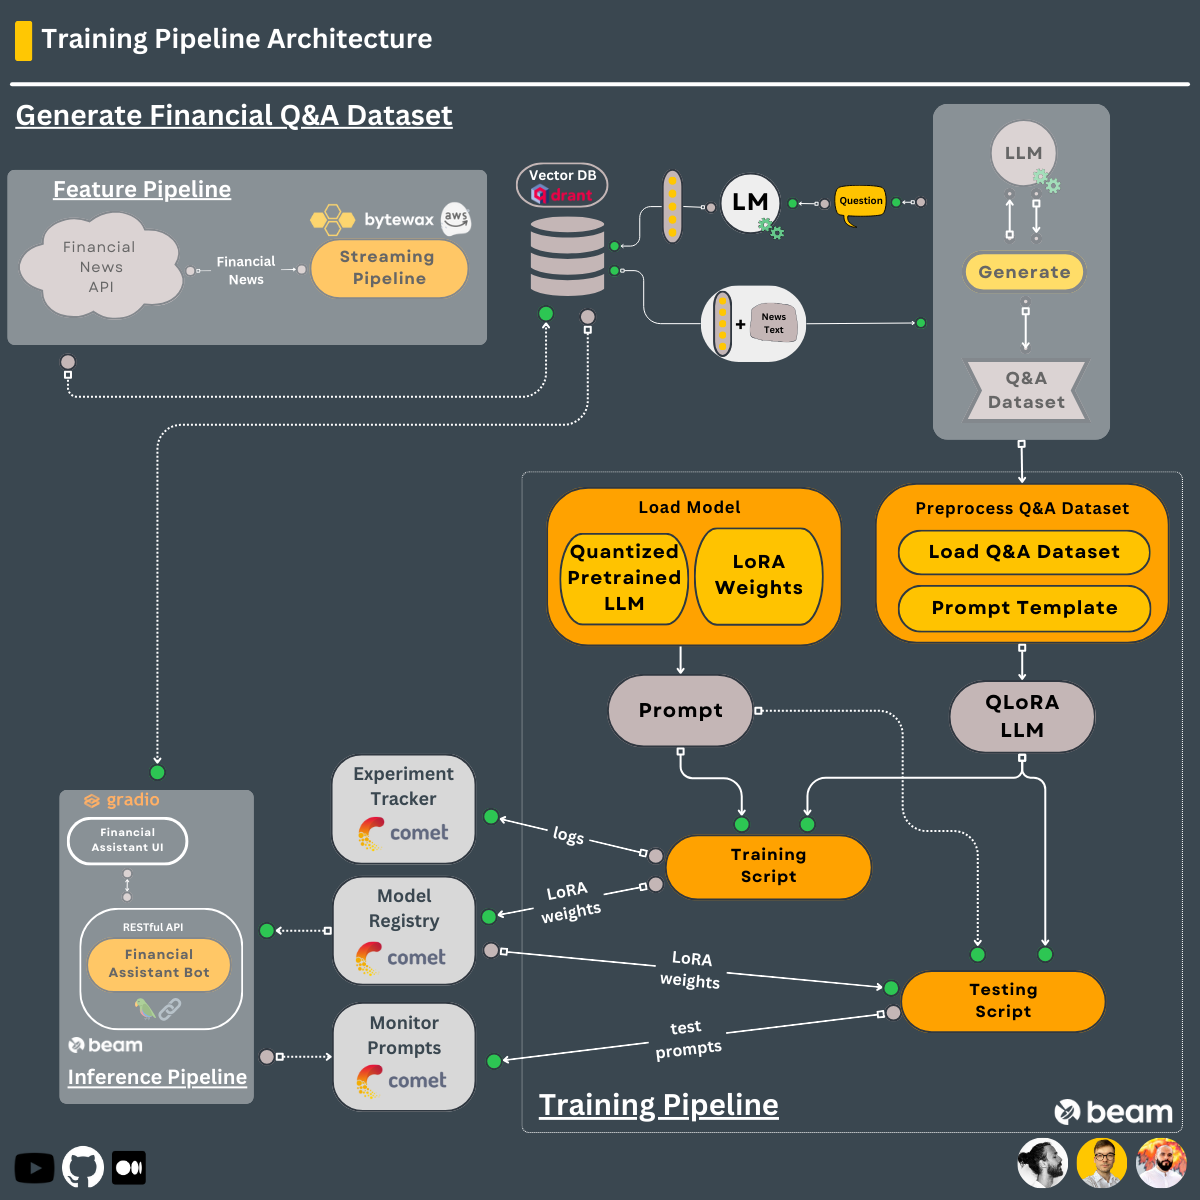
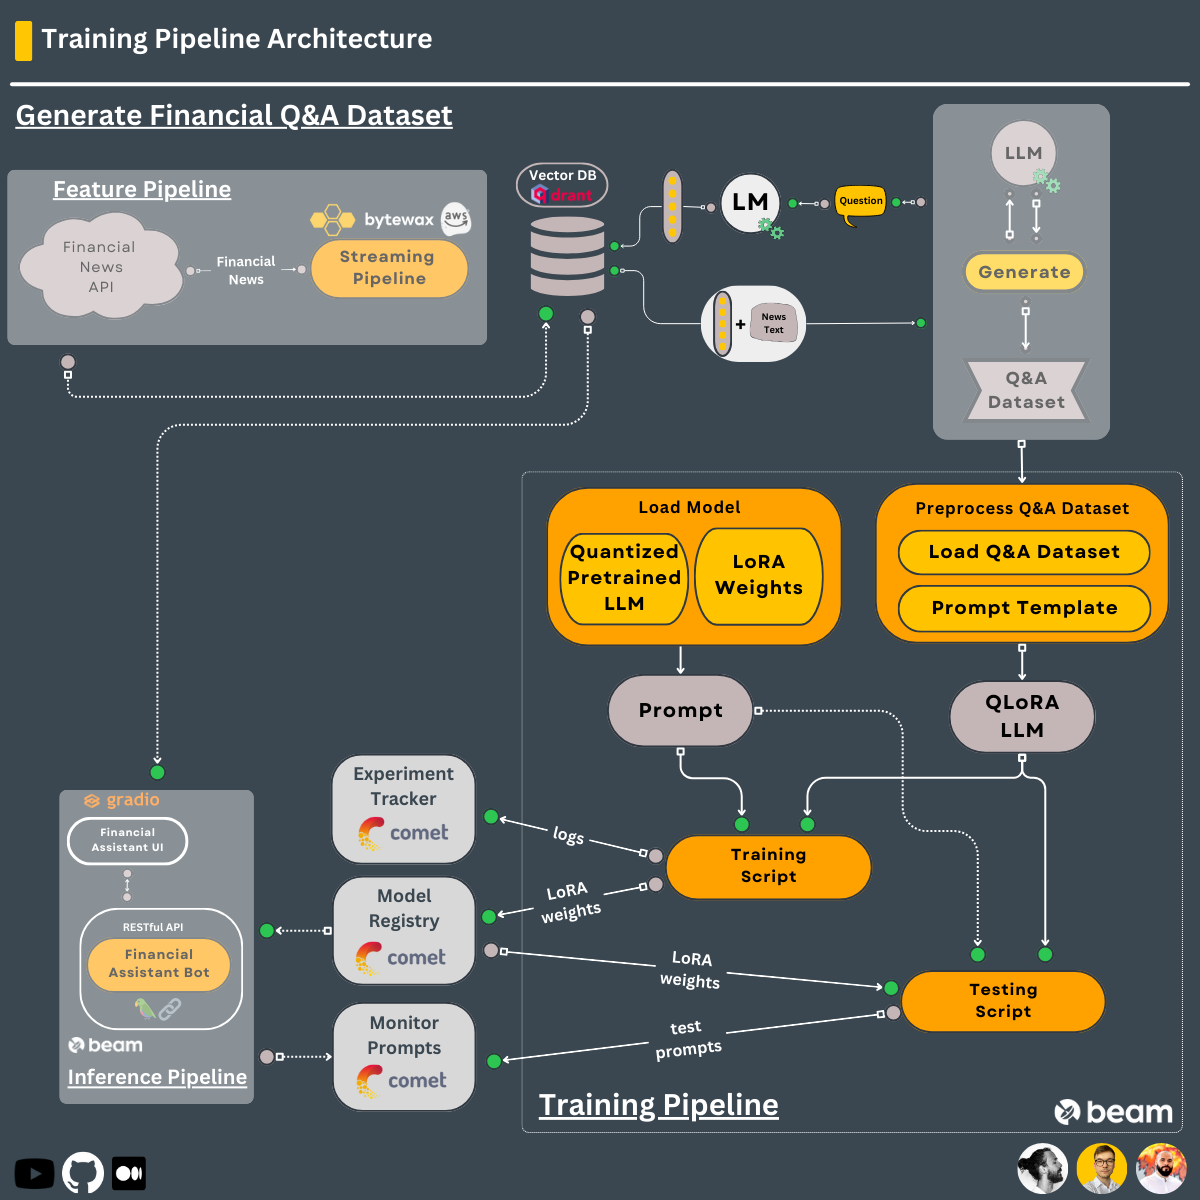
docs: Update layouts
* docs: Update training pipeline architecture diagram

* docs: Update SP layout

* docs: Update main layout

* docs: Update TODOs

Changed region(s): [[0.8325, 0.925, 1.0, 1.0], [0.0, 0.9558, 0.1233, 1.0]]

diff --git a/modules/financial_bot/financial_bot/chains.py b/modules/financial_bot/financial_bot/chains.py
@@ -113,12 +113,13 @@ class ContextExtractorChain(Chain):
         question_str = inputs[quest_key]
 
         cleaned_question = self.clean(question_str)
-        # TODO: Chunk the question in 'max_input_length' chunks,
+        # TODO: Instead of cutting the question at 'max_input_length', chunk the question in 'max_input_length' chunks,
         # pass them through the model and average the embeddings.
         cleaned_question = cleaned_question[: self.embedding_model.max_input_length]
         embeddings = self.embedding_model(cleaned_question)
 
-        # TODO: Using the metadata filter the news from the latest week (or other timeline).
+        # TODO: Using the metadata, use the filter to take into consideration only the news from the last 24 hours
+        # (or other time frame).
         matches = self.vector_store.search(
             query_vector=embeddings,
             k=self.top_k,

diff --git a/modules/training_pipeline/training_pipeline/api/training.py b/modules/training_pipeline/training_pipeline/api/training.py
@@ -212,8 +212,6 @@ class TrainingAPI:
 
         logger.info("Training model...")
 
-        # TODO: Handle this error: "Token indices sequence length is longer than the specified maximum sequence length
-        # for this model (2302 > 2048). Running this sequence through the model will result in indexing errors"
         trainer = SFTTrainer(
             model=self._model,
             train_dataset=self._training_dataset,

diff --git a/modules/financial_bot/financial_bot/models.py b/modules/financial_bot/financial_bot/models.py
@@ -210,10 +210,6 @@ def build_qlora_model(
         cache_dir=str(cache_dir) if cache_dir else None,
     )
 
-    # TODO: Should we also enable kbit training? Check out what it does.
-    # from peft import prepare_model_for_kbit_training
-    # model = prepare_model_for_kbit_training(model)
-
     tokenizer = AutoTokenizer.from_pretrained(
         pretrained_model_name_or_path,
         trust_remote_code=False,

diff --git a/modules/training_pipeline/training_pipeline/models.py b/modules/training_pipeline/training_pipeline/models.py
@@ -59,10 +59,6 @@ def build_qlora_model(
         cache_dir=str(cache_dir) if cache_dir else None,
     )
 
-    # TODO: Should we also enable kbit training? Check out what it does.
-    # from peft import prepare_model_for_kbit_training
-    # model = prepare_model_for_kbit_training(model)
-
     tokenizer = AutoTokenizer.from_pretrained(
         pretrained_model_name_or_path,
         trust_remote_code=False,

diff --git a/modules/training_pipeline/training_pipeline/api/inference.py b/modules/training_pipeline/training_pipeline/api/inference.py
@@ -172,9 +172,6 @@ class InferenceAPI:
 
         """
 
-        # TODO: Handle this error: "Token indices sequence length is longer than the specified maximum sequence length
-        # for this model (2302 > 2048). Running this sequence through the model will result in indexing errors"
-
         start_time = time.time()
         answer = models.prompt(
             model=self._model,

diff --git a/modules/streaming_pipeline/README.md b/modules/streaming_pipeline/README.md
@@ -155,11 +155,15 @@ Now, add all the secrets as in the image below.
 
 ![GitHub Actions Secrets](../../media/github_actions_secrets.png)
 
-Now, to deploy the streaming pipeline to AWS using GitHub Action's CI/CD pipeline, follow the next steps: `Actions Tab -> Continuous Deployment (CD) | Streaming Pipeline action (on the left) -> Press "Run workflow"`.
+<br/>
+
+Now, to **automatically deploy** the streaming pipeline to AWS using the GitHub Action's CI/CD pipeline, follow the next steps: `Actions Tab -> Continuous Deployment (CD) | Streaming Pipeline action (on the left) -> Press "Run workflow"`.
 
 ![GitHub Actions CD](../../media/github_actions_cd.png)
 
-To automatically destroy all the AWS components created earlier, you have to call another GitHub Actions workflow as follows: `Actions Tab -> Destroy AWS Infrastructure -> Press "Run workflow"`
+<br/>
+
+To **automatically destroy** all the AWS components created earlier, you have to call another GitHub Actions workflow as follows: `Actions Tab -> Destroy AWS Infrastructure -> Press "Run workflow"`
 
 ----
 
@@ -167,10 +171,12 @@ To automatically destroy all the AWS components created earlier, you have to cal
 ```
 cat /var/log/cloud-init-output.log
 ```
-Also, to see that the docker image is running:
+Also, to see that the streaming pipeline Docker container is running, run the following:
 ```
 docker ps
 ```
+You should see the `streaming_pipeline` docker container listed.
+
 **Note:** You have to wait for ~5 minutes until everything is initialized fully.
 
 ## 3.4. Linting & Formatting

diff --git a/README.md b/README.md
@@ -8,6 +8,11 @@
 
 - [1. Building Blocks](#1-building-blocks)
 - [2. Setup External Services](#2-setup-external-services)
+    - [2.1. Alpaca](#21-alpaca)
+    - [2.2. Qdrant](#22-qdrant)
+    - [2.3. Comet ML](#23-comet-ml)
+    - [2.4. Beam](#24-beam)
+    - [2.5. AWS](#25-aws)
 - [3. Install & Usage](#3-install--usage)
 - [4. Video lectures](#4-video-lectures)
 - [5. License](#5-license)
